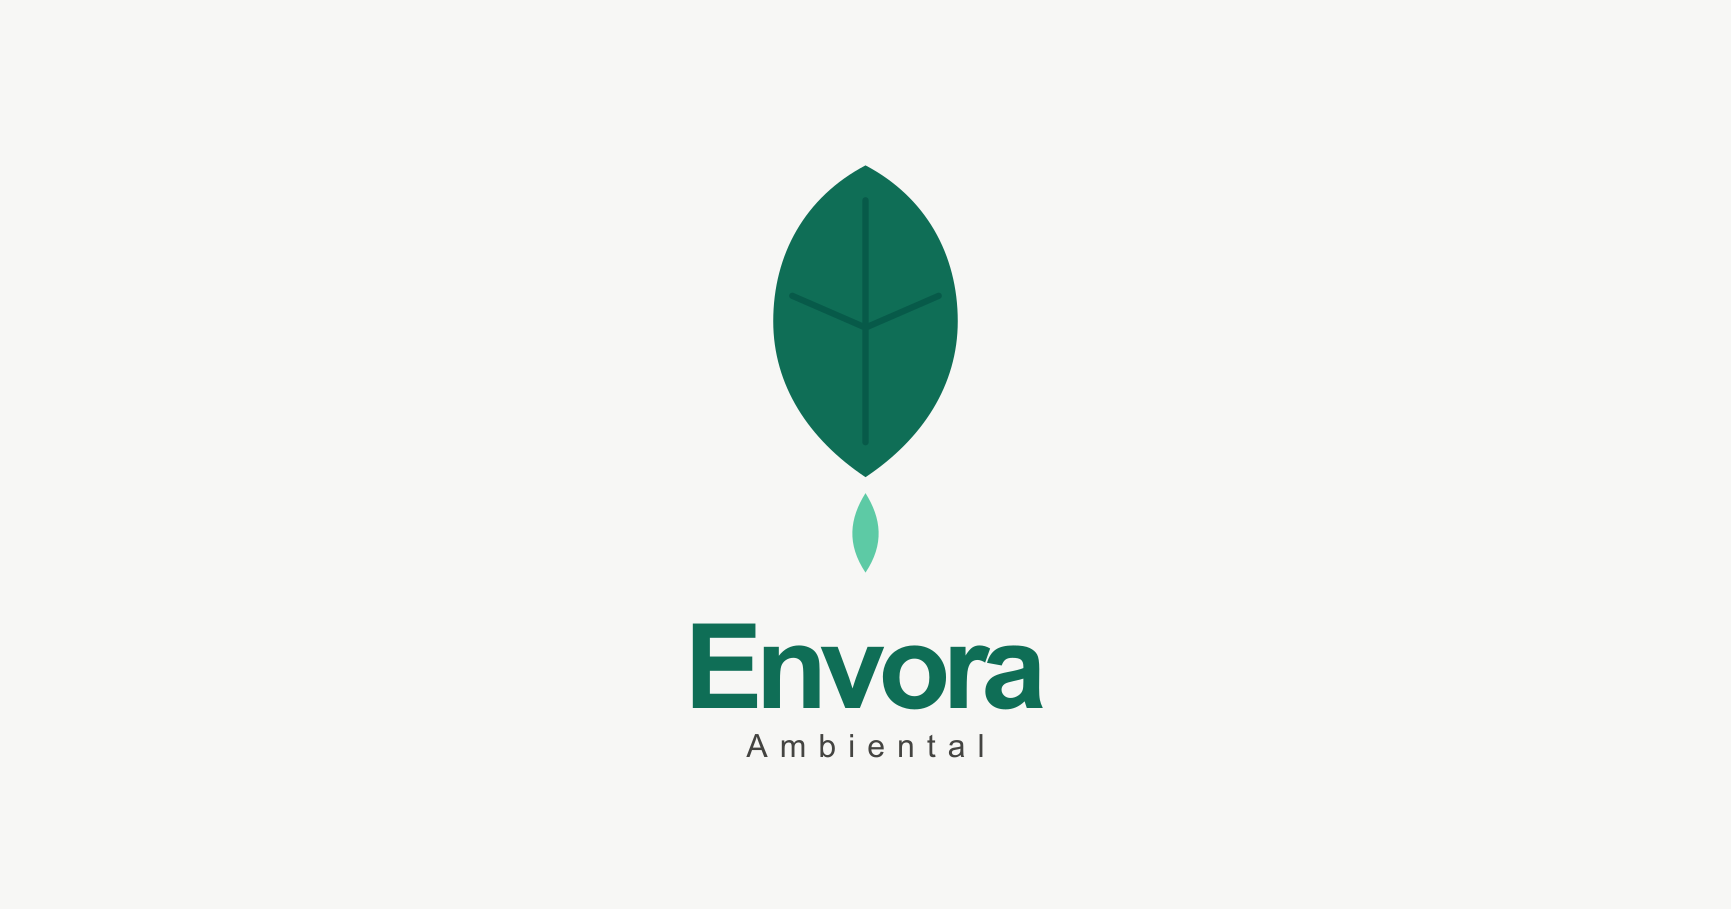
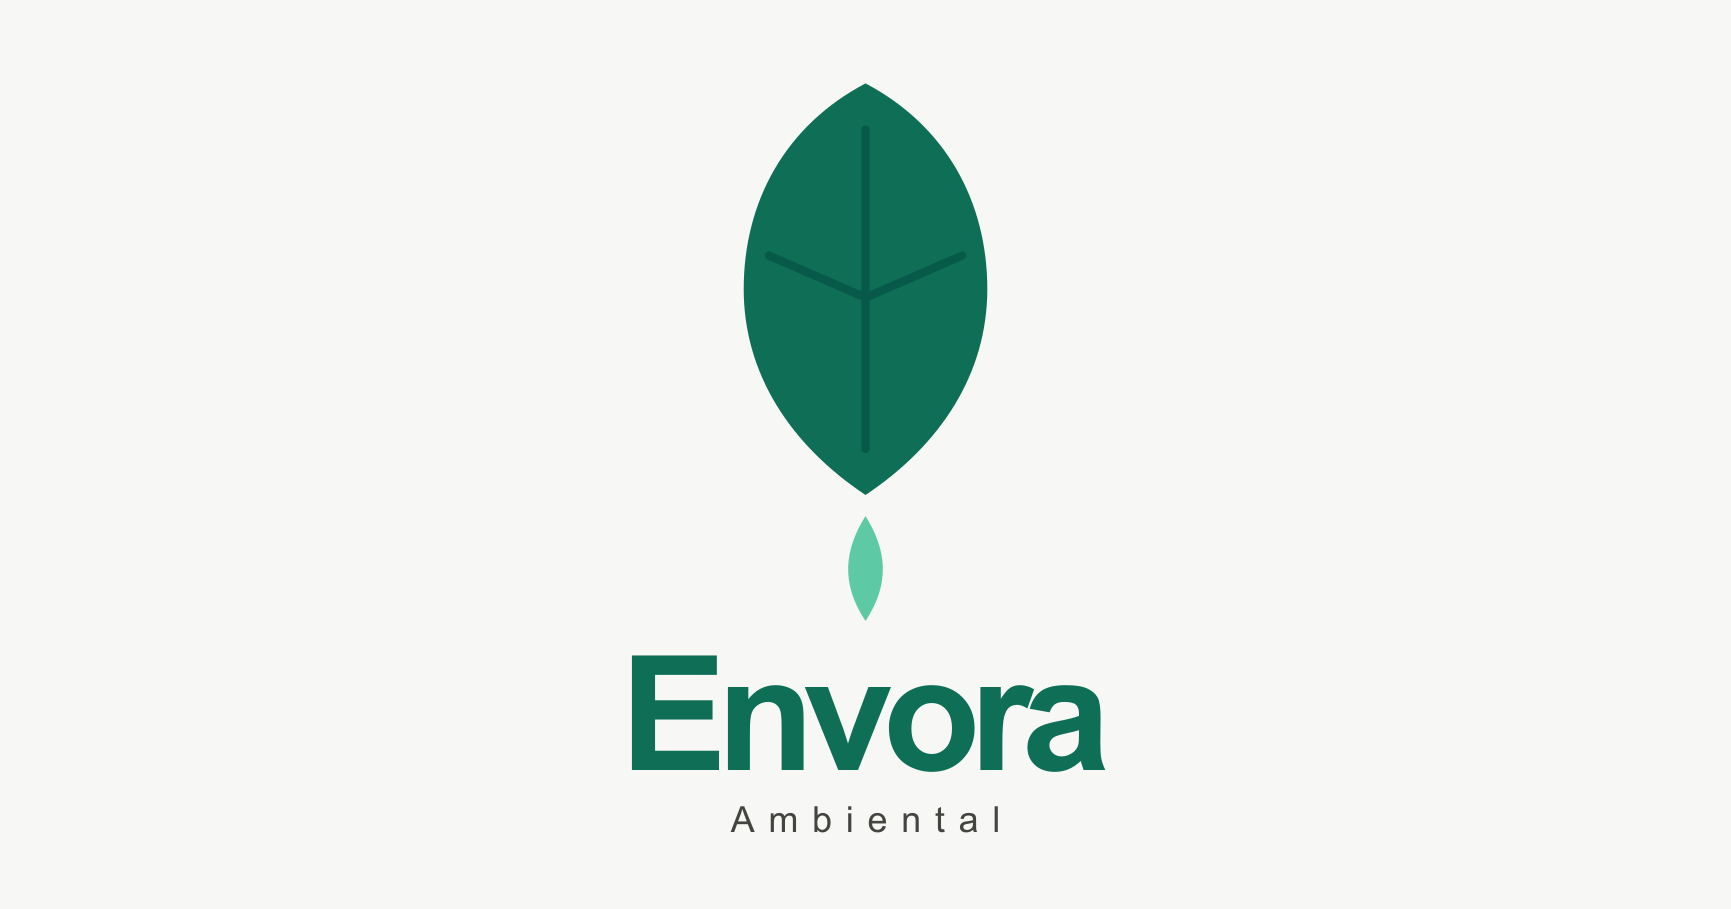
Enlarge Envora social preview lockup and refresh image URL

diff --git a/app/layout.tsx b/app/layout.tsx
@@ -20,13 +20,13 @@ export const metadata: Metadata = {
     locale: "pt_BR",
     siteName: "Envora Consultoria Ambiental",
     url: "/",
-    images: [{ url: "/og.png", width: 1731, height: 909, alt: "Consultoria Ambiental em Joinville — Envora" }],
+    images: [{ url: "/og.png?v=2", width: 1731, height: 909, alt: "Envora Ambiental — marca" }],
   },
   twitter: {
     card: "summary_large_image",
     title: "Envora | Consultoria Ambiental em Joinville",
     description: "Licenciamento e regularização ambiental em Joinville.",
-    images: ["/og.png"],
+    images: ["/og.png?v=2"],
   },
   icons: {
     icon: [
